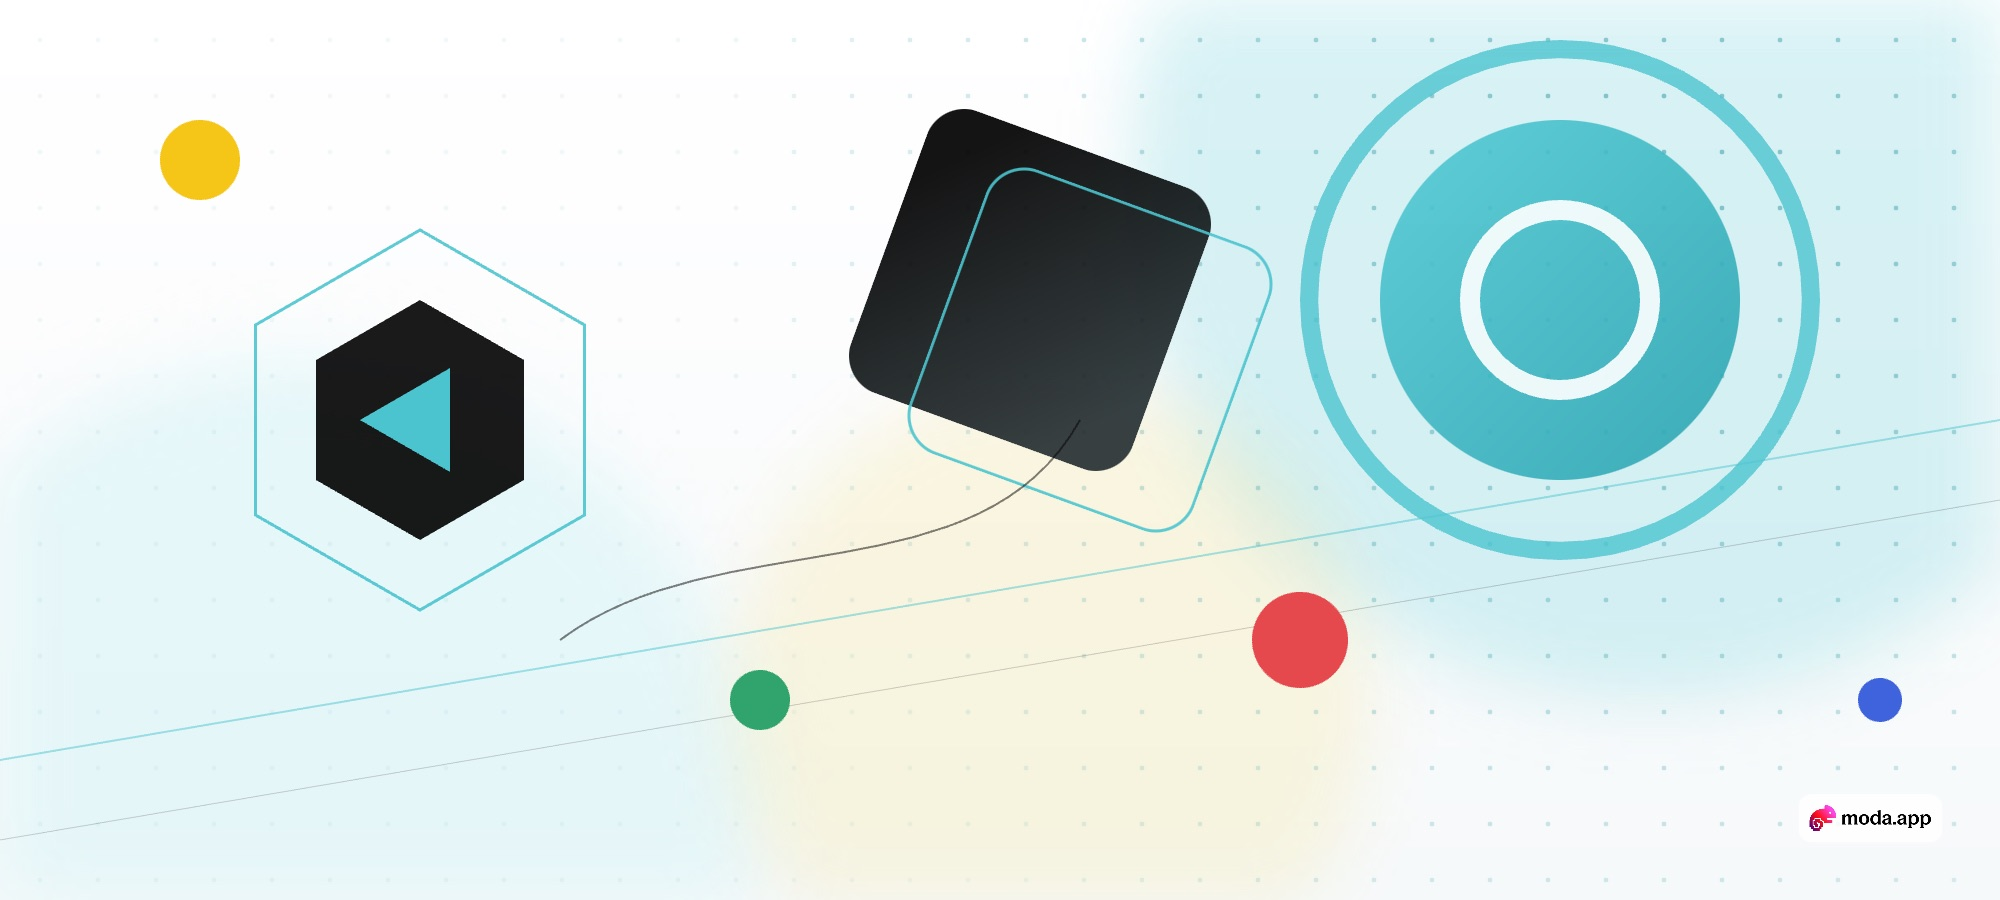
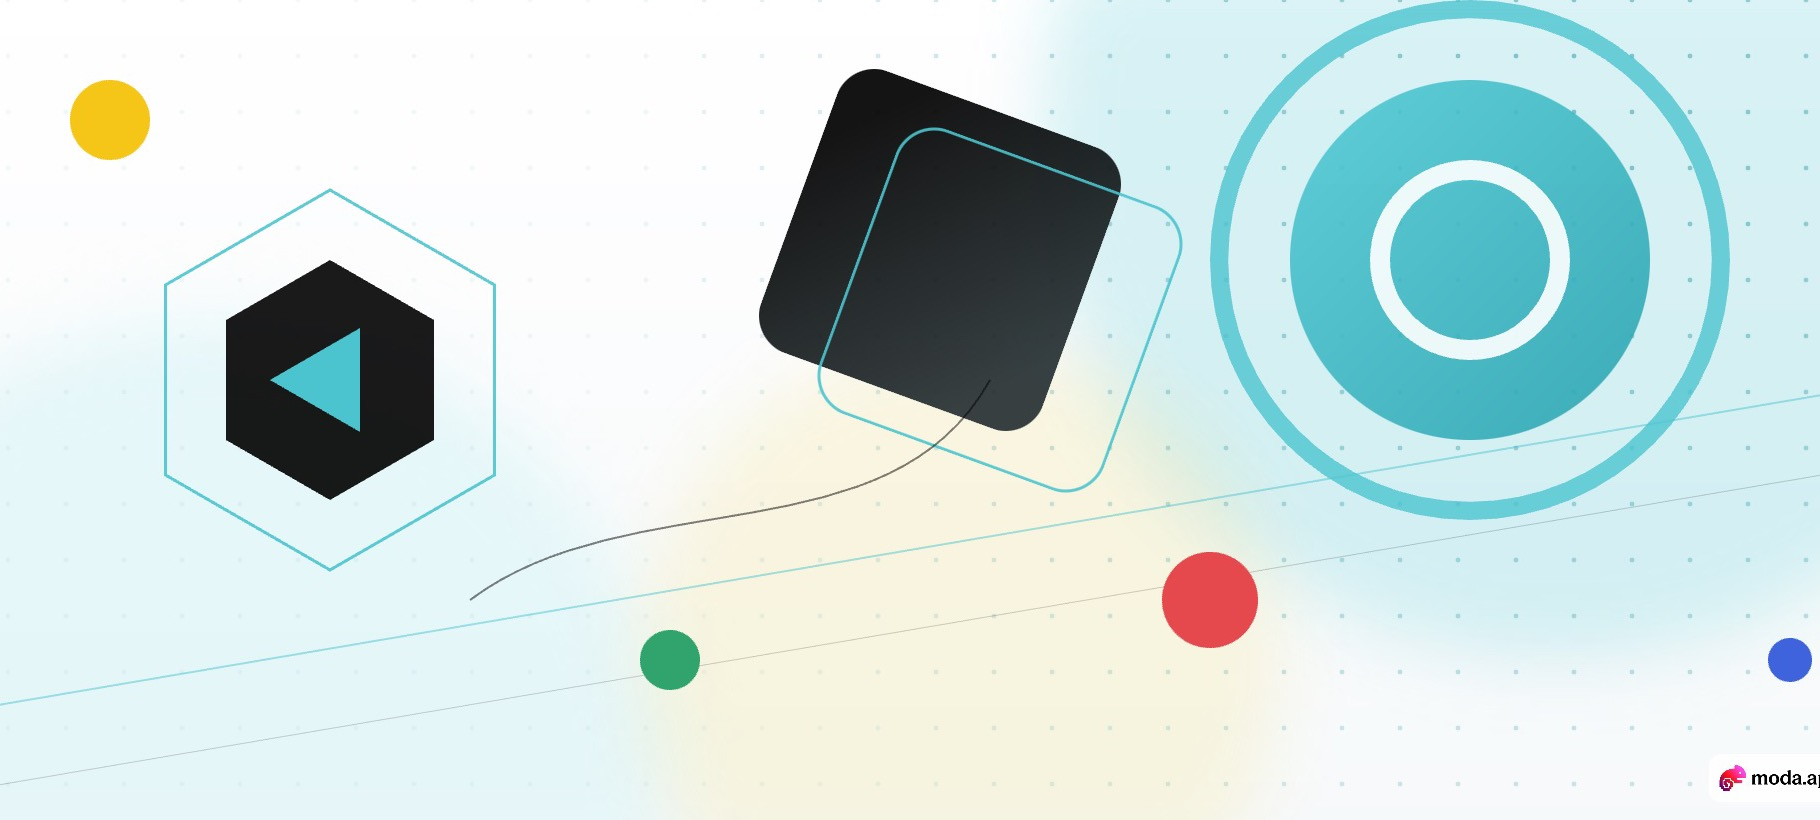
v2.4.1: crop the Moda export badge out of the still images and video loops

diff --git a/assets/app.css b/assets/app.css
@@ -377,7 +377,7 @@ body.glass .side{background:color-mix(in srgb,#000 calc(100% - var(--glass) / 2)
 @keyframes welUp{to{transform:none;opacity:1}} @keyframes welLine{to{width:min(220px,60%)}}
 .motion .si .art p,.motion .si .art #demoAccounts{opacity:0;animation:fadeUp .7s 1s cubic-bezier(.2,.7,.2,1) forwards} @keyframes fadeUp{from{opacity:0;transform:translateY(10px)}to{opacity:1;transform:none}}
 /* ambient loops made in Moda: muted looping video behind the hero and the sign-in panel, poster as fallback */
-.loop-bg{position:absolute;inset:0;width:100%;height:100%;object-fit:cover;z-index:0;pointer-events:none}
+.loop-bg{position:absolute;left:-3%;top:-3%;width:112%;height:112%;object-fit:cover;z-index:0;pointer-events:none}
 .bh{isolation:isolate} .bh .loop-bg{opacity:.9} .bh-text,.bh-art{position:relative;z-index:1}
 .si .art .loop-bg{z-index:-2} .si .art::after{z-index:-1}
 @media (prefers-reduced-motion:reduce){.loop-bg{display:none} .reveal{opacity:1;transform:none} .wel span{animation:none;transform:none;opacity:1} .wel-line{animation:none;width:min(220px,60%)}}
@@ -391,3 +391,5 @@ body.glass .side{background:color-mix(in srgb,#000 calc(100% - var(--glass) / 2)
 .bh::after{content:"";position:absolute;inset:0;background:linear-gradient(90deg,rgba(0,0,0,.15) 0%,rgba(0,0,0,.5) 50%,rgba(0,0,0,.78) 100%);z-index:0;pointer-events:none}
 @media (max-width:980px){.bh::after{background:linear-gradient(180deg,rgba(0,0,0,.2) 0%,rgba(0,0,0,.8) 100%)}}
 @media (max-width:560px){.nav .wrap{gap:10px} .nav .brand{font-size:17px} .nav .brand img{width:28px} .nav .cta{gap:6px} .nav .cta .btn{padding:7px 11px;font-size:13px} .nav .cta .btn.ghost{display:none}}
+/* crop the export badge out of the version preview video */
+.ver-row .vwrap{overflow:hidden;border-radius:16px;border:1px solid var(--line);box-shadow:var(--sh)} .ver-row .vwrap video{display:block;width:112%;height:auto;margin:-3% 0 -9% -3%;border:0;border-radius:0;box-shadow:none}

diff --git a/sw.js b/sw.js
@@ -1,7 +1,7 @@
 /* Compass Ed offline support: keeps the app shell and any lesson, activity or page you have opened on this device.
    Pages: network first (fall back to the saved copy). Assets: saved copy first, refreshed in the background.
    Database calls are never cached here (the page keeps its own small cache of content it has read). */
-const V = "ce-v7", SHELL = "ce-shell-" + V, RT = "ce-rt-" + V;
+const V = "ce-v8", SHELL = "ce-shell-" + V, RT = "ce-rt-" + V;
 const CORE = ["./", "index.html", "about.html", "signin.html", "student/", "student/index.html", "teacher/", "teacher/index.html", "parent.html", "versions.html", "404.html", "privacy.html", "terms.html", "cookies.html", "consent.html", "manifest.webmanifest",
   "assets/app.css", "assets/config.js", "assets/core.js", "assets/campus.js", "assets/icons.js", "assets/demo.js", "assets/public.js", "assets/signin.js", "assets/student.js", "assets/teacher.js", "assets/parent.js",
   "assets/logo.svg", "assets/logo-white.svg", "assets/favicon.svg", "assets/art/signin-bg.jpg", "assets/art/band.jpg", "assets/versions/v2.4.svg", "assets/icon-192.png", "assets/icon-512.png"];

diff --git a/versions.html b/versions.html
@@ -75,7 +75,7 @@
             <li>Artwork and this animated preview designed in Moda; logo contrast fixes.</li>
           </ul>
         </div>
-        <video src="assets/versions/v2.3.mp4" autoplay muted loop playsinline poster="assets/art/signin-bg.jpg" aria-label="Animated preview of Compass Ed version 2.3: codes, consent and connections"></video>
+        <div class="vwrap"><video src="assets/versions/v2.3.mp4" autoplay muted loop playsinline poster="assets/art/signin-bg.jpg" aria-label="Animated preview of Compass Ed version 2.3: codes, consent and connections"></video></div>
       </article>
 
       <article class="card ver-row" id="v2-2">
